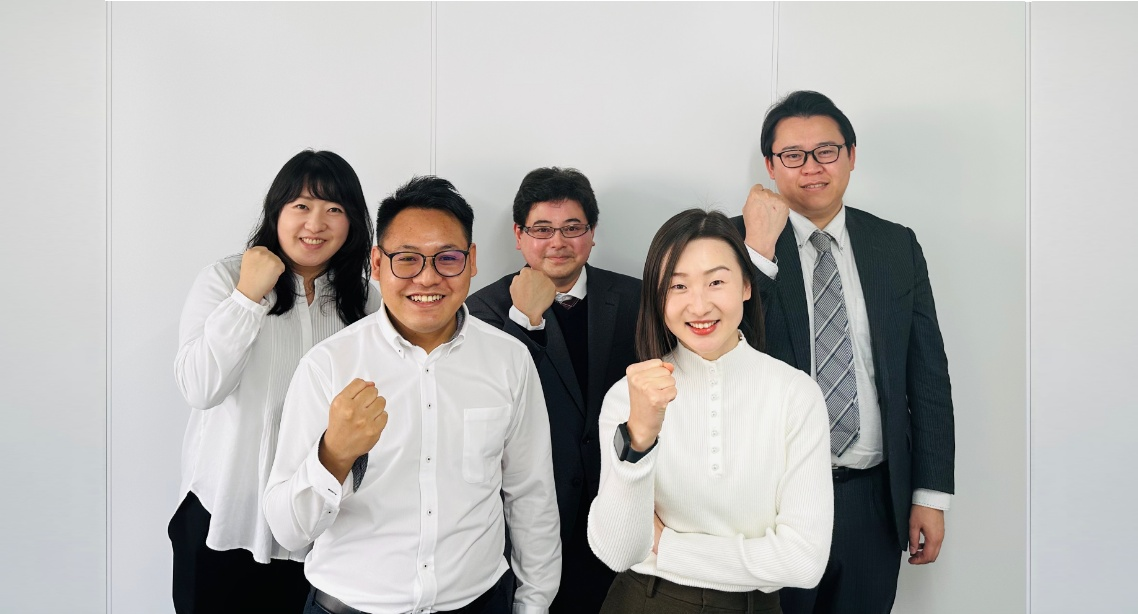
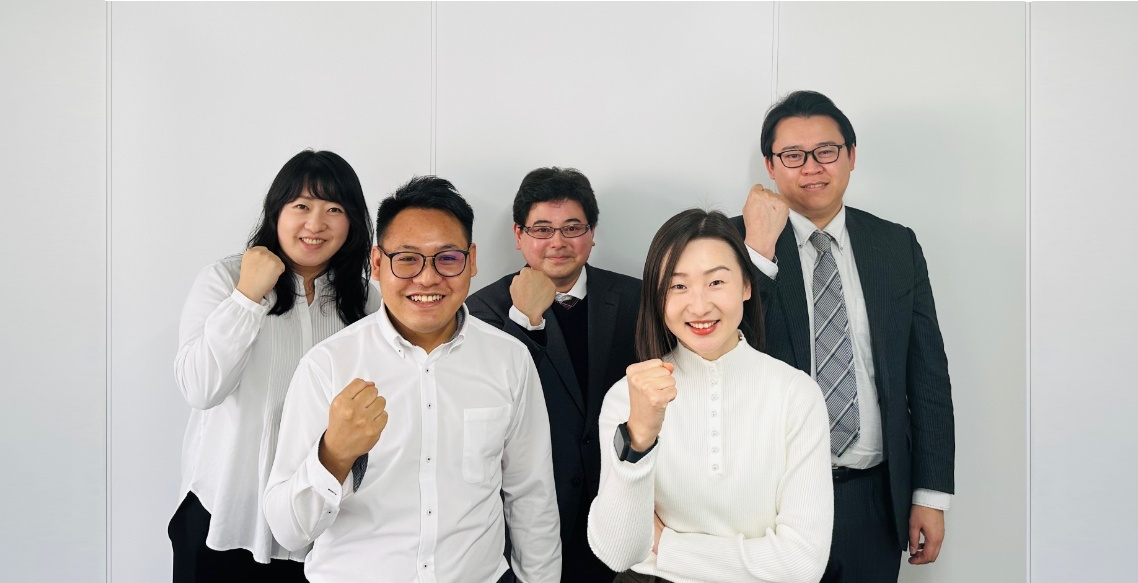
kyaw commit

Changed region(s): [[0.123, 0.1235, 0.8612, 1.0], [0.8304, 0.6175, 0.8612, 0.6484]]

diff --git a/jp/business/index.php b/jp/business/index.php
@@ -89,7 +89,7 @@
             <canvas class="particlesBg"></canvas>
             <div class="sub-bannerIn c-w1170">
                 <h2 class="sub-ttl">事業内容</h2>
-                <img src="/home-page/assets/img/company/bnr_img.jpg" class="sub-bannerImg" alt="">
+                <img src="/home-page/assets/img/business/bnr_img.jpg" class="sub-bannerImg" alt="">
             </div>
         </div>
         <!-- sub-banner -->

diff --git a/en/business/index.php b/en/business/index.php
@@ -89,7 +89,7 @@
             <canvas class="particlesBg"></canvas>
             <div class="sub-bannerIn c-w1170">
                 <h2 class="sub-ttl">Business</h2>
-                <img src="/home-page/assets/img/company/bnr_img.jpg" class="sub-bannerImg" alt="">
+                <img src="/home-page/assets/img/business/bnr_img.jpg" class="sub-bannerImg" alt="">
             </div>
         </div>
         <!-- sub-banner -->
